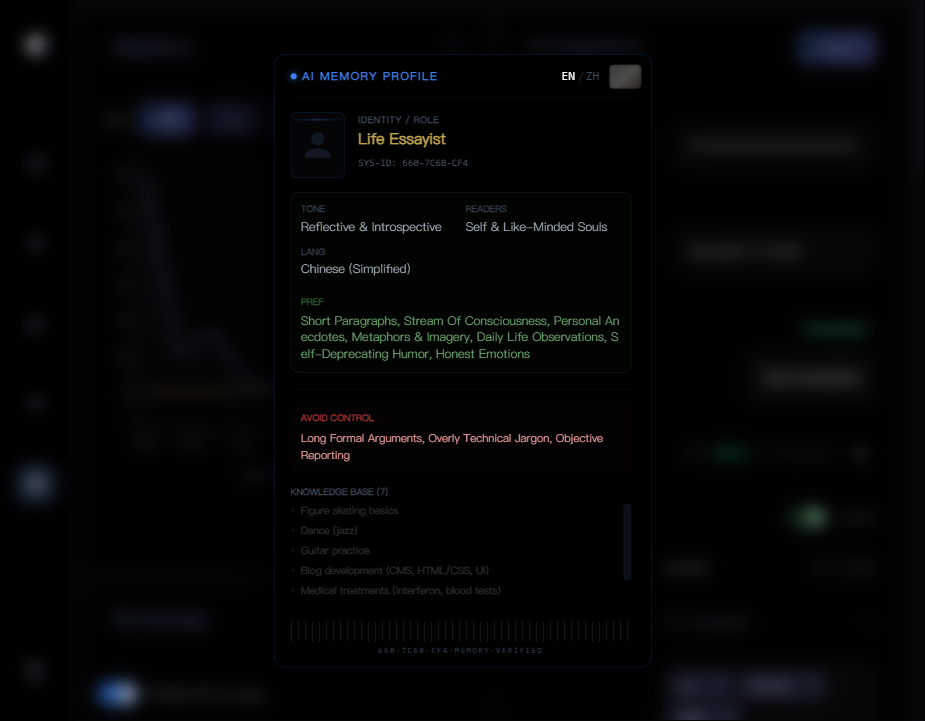
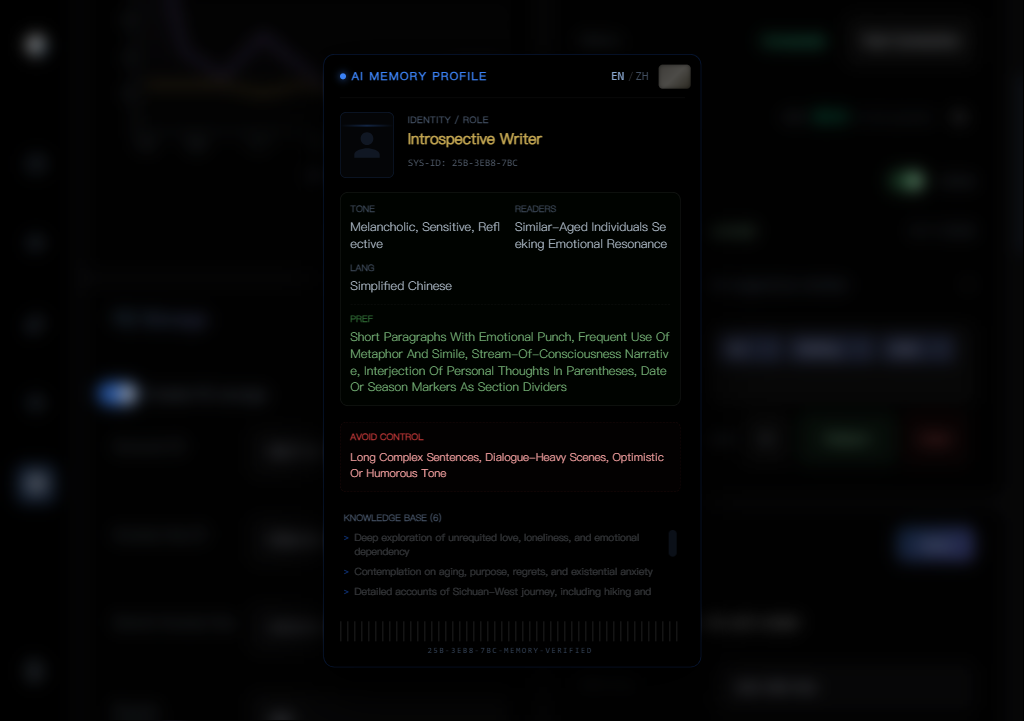
fix: AI MEMORY PROFILE UI adn doc update

diff --git a/src/routes/admin/setting/MemoryProfile.svelte b/src/routes/admin/setting/MemoryProfile.svelte
@@ -247,7 +247,7 @@
     border: 1px solid rgb(31 109 255 / 0.2);
     box-shadow: 0 30px 60px rgba(0, 0, 0, 0.8);
     max-height: 85vh;
-		min-height: 640px;
+		height: 640px;
     padding: 12px 16px;
     background: #000;
     border-radius: 11px;